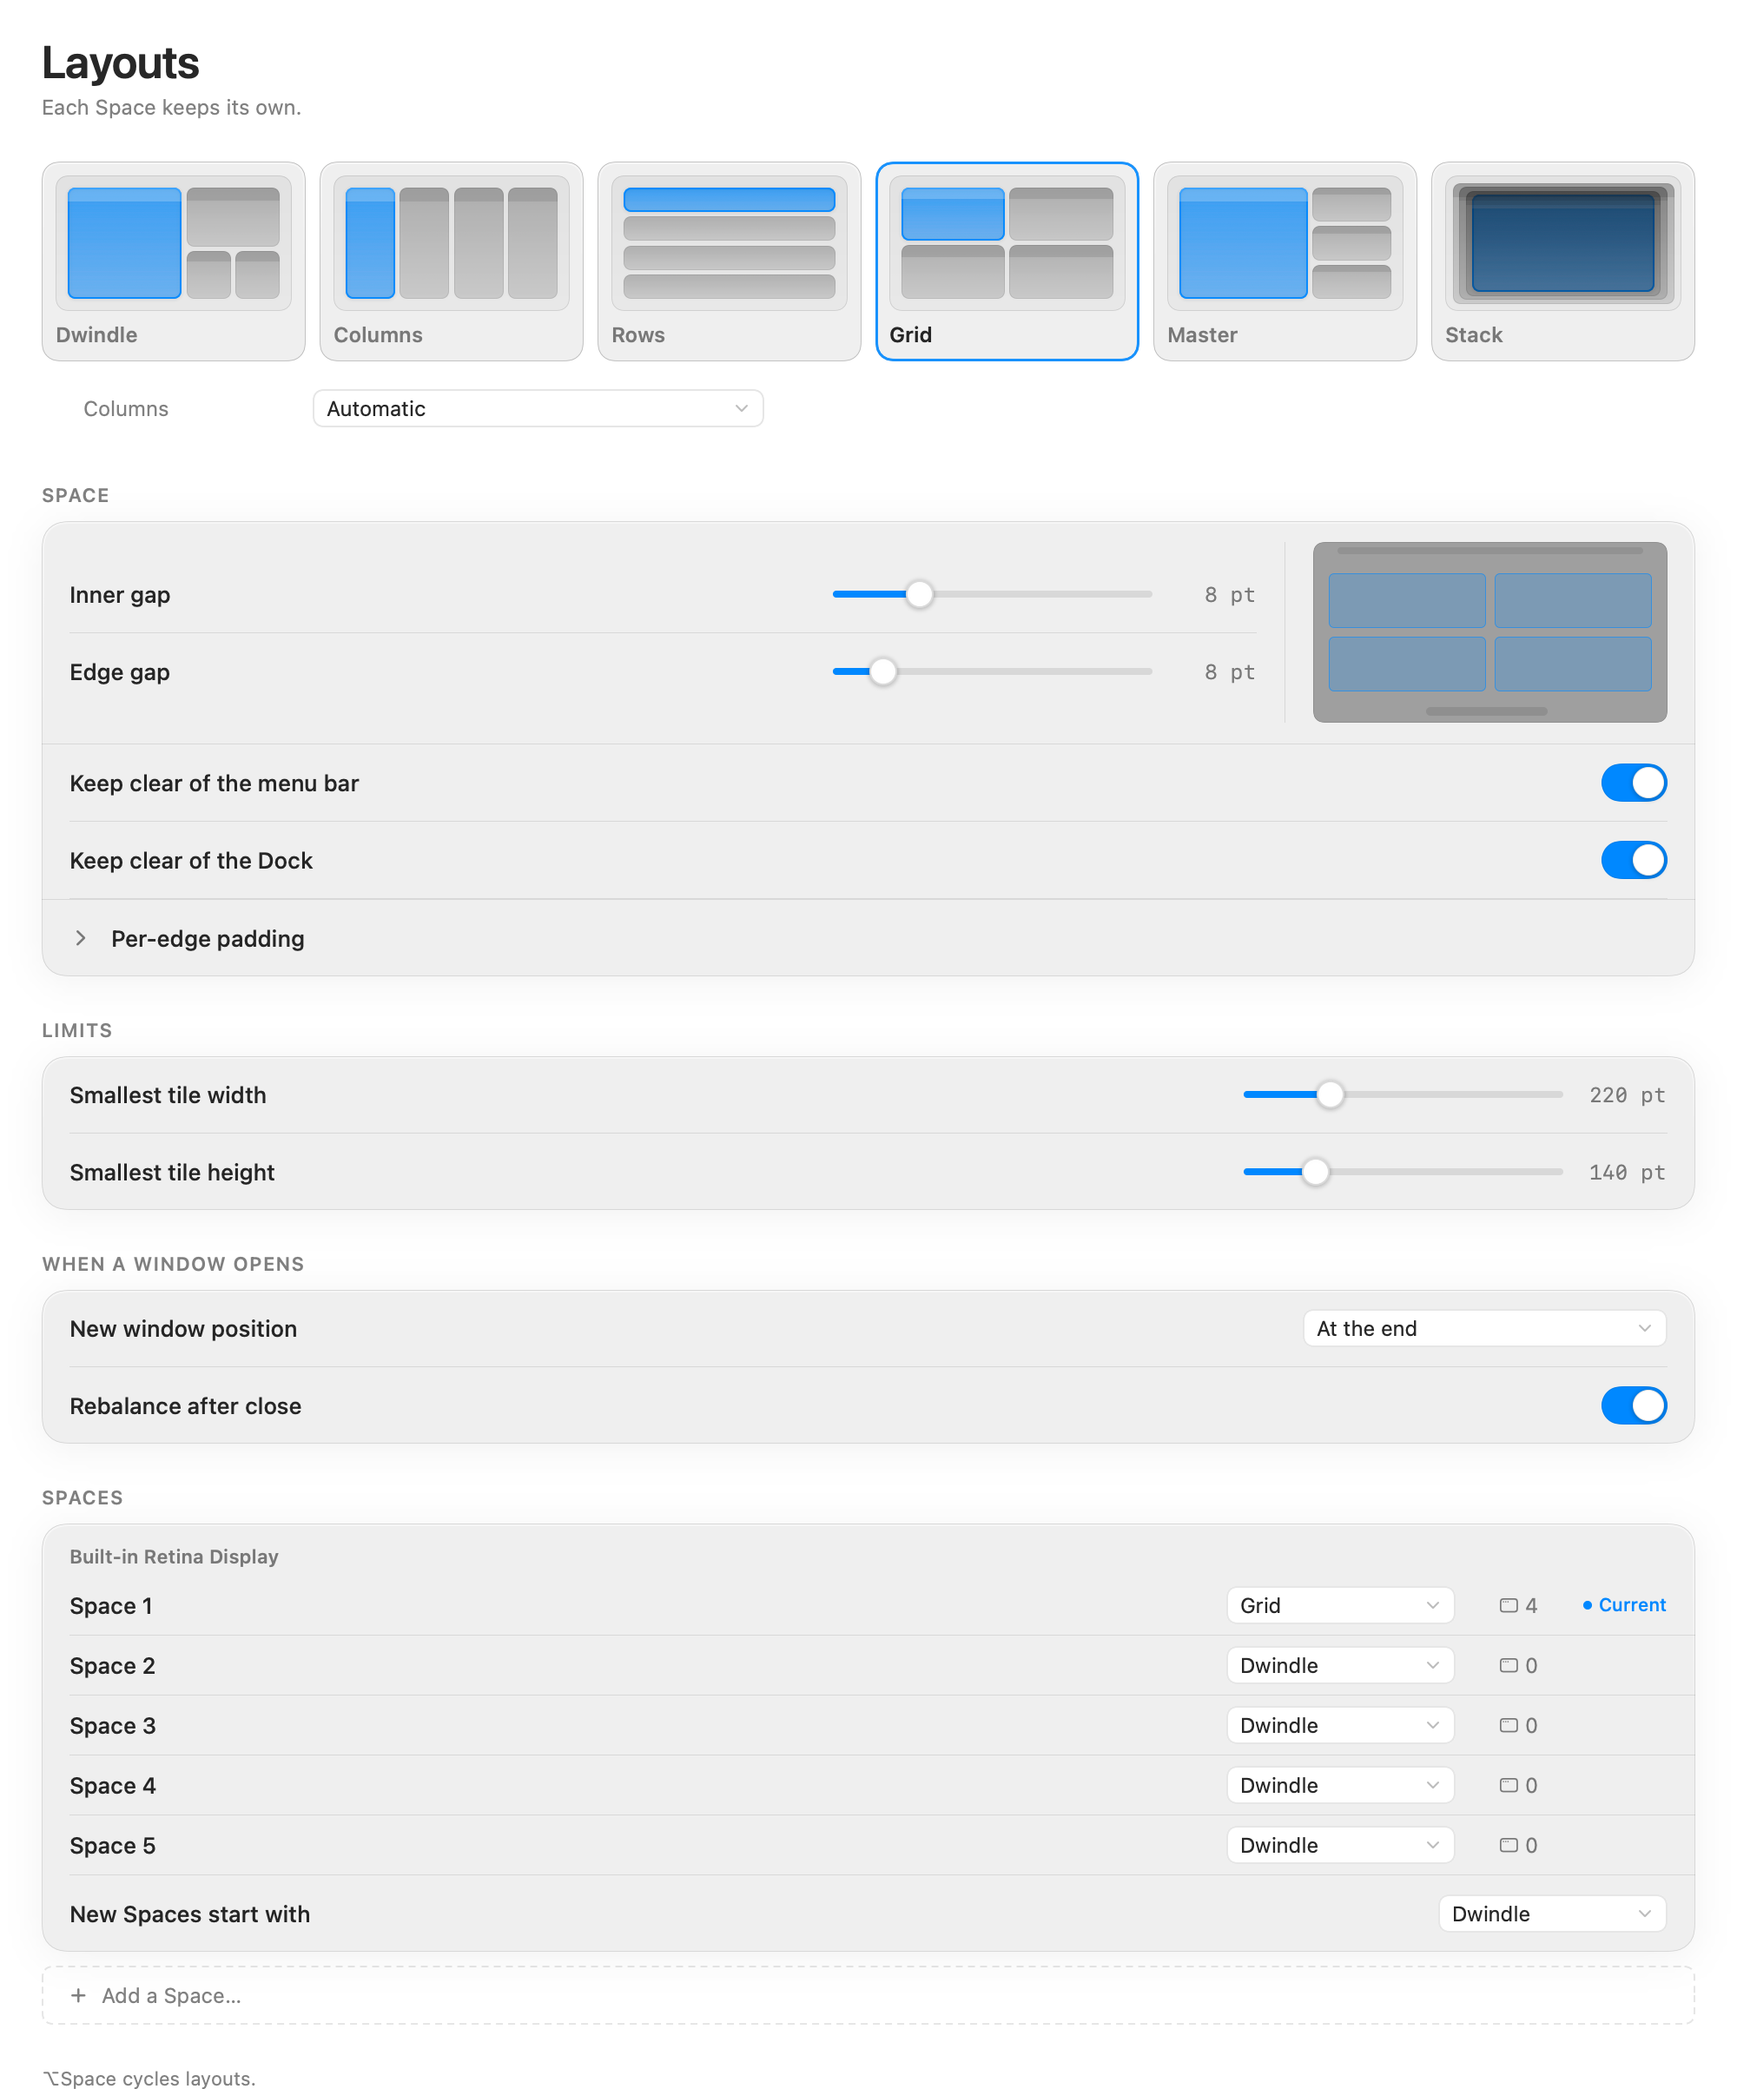
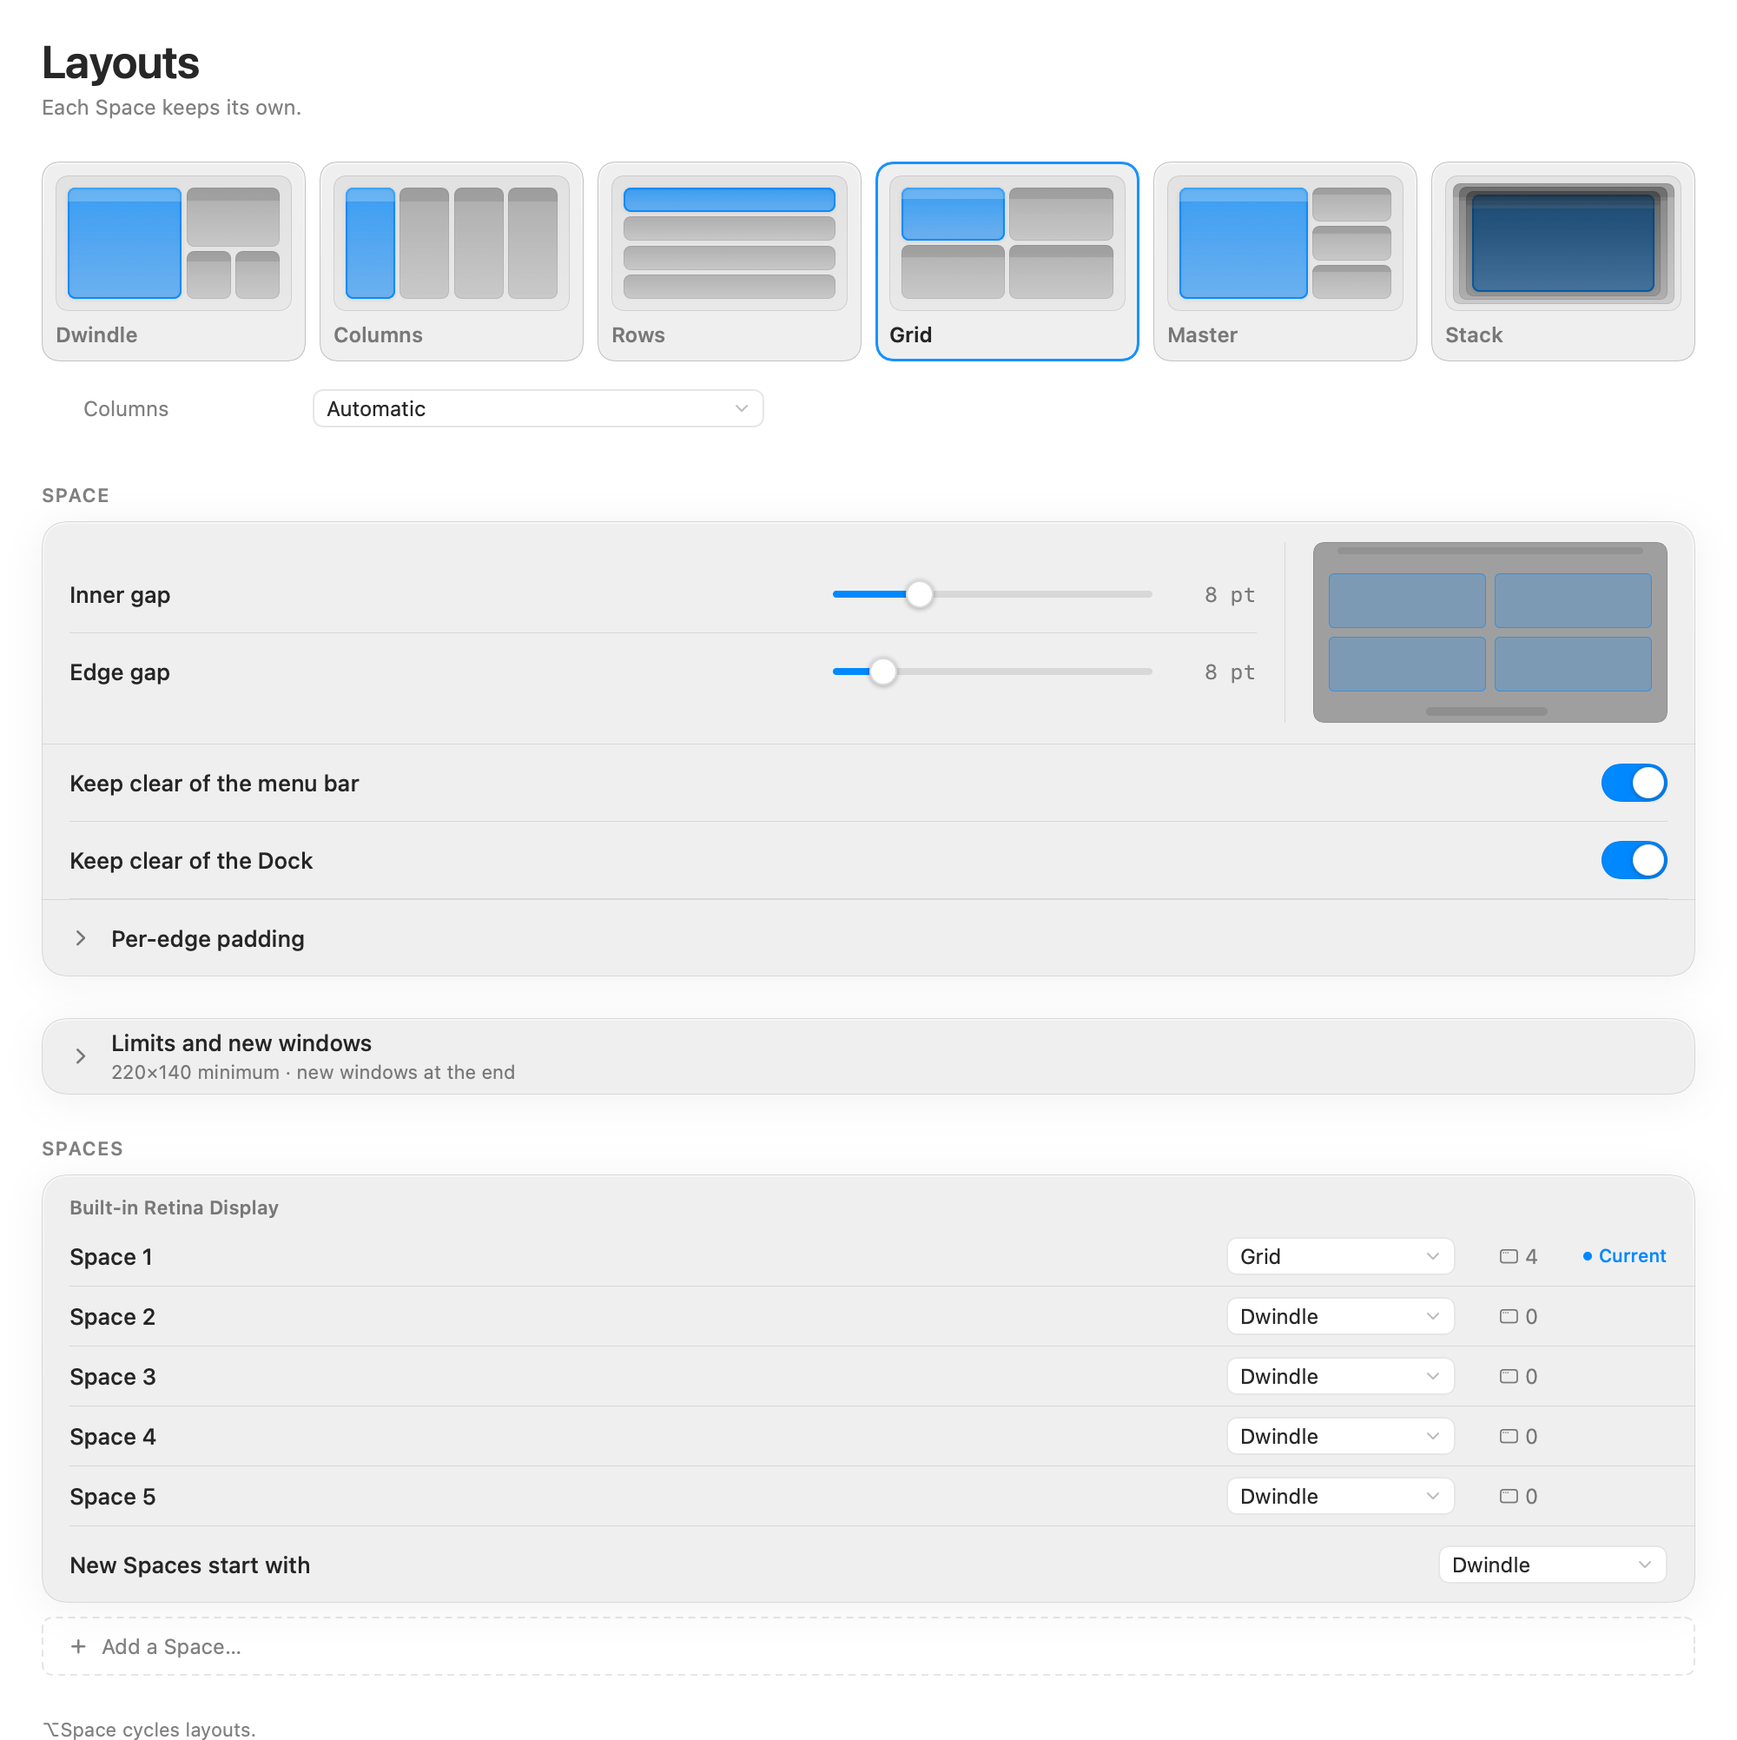
Layouts: fold Limits and new-window behaviour into one disclosure row

diff --git a/Sources/Lattice/UI/Layouts/LayoutsPage.swift b/Sources/Lattice/UI/Layouts/LayoutsPage.swift
@@ -25,8 +25,7 @@ struct LayoutsPage: View {
             header
             LayoutSelector(model: model, prefs: prefs)
             LayoutSpaceSection(model: model, prefs: prefs)
-            LayoutLimitsSection(prefs: prefs)
-            LayoutInsertionSection(prefs: prefs)
+            LayoutFineTuning(prefs: prefs)
             LayoutSpacesSection(model: model, prefs: prefs)
             footer
                 .padding(.bottom, LatticeTheme.Spacing.xl)
@@ -56,5 +55,42 @@ struct LayoutsPage: View {
         Text("⌥Space cycles layouts.")
             .font(.system(size: 11))
             .foregroundStyle(.secondary)
+    }
+}
+
+// MARK: - Fine tuning
+
+/// Limits and new-window behaviour are set once and forgotten, so they live behind one row
+/// instead of taking two sections of the page.
+private struct LayoutFineTuning: View {
+
+    @ObservedObject var prefs: LayoutsPreferences
+    @State private var expanded = false
+
+    private var summary: String {
+        let limit = "\(Int(prefs.prefs.minTiledWidth))×\(Int(prefs.prefs.minTiledHeight)) minimum"
+        let insertion = prefs.prefs.insertionPolicy.title.lowercased()
+        return "\(limit) · new windows \(insertion)"
+    }
+
+    var body: some View {
+        VStack(alignment: .leading, spacing: LatticeTheme.Spacing.md) {
+            Card(padding: 0) {
+                SettingsDisclosureRow(
+                    title: "Limits and new windows",
+                    subtitle: expanded ? nil : summary,
+                    isExpanded: expanded,
+                    showsDivider: false
+                ) {
+                    withAnimation(LatticeTheme.animation) { expanded.toggle() }
+                }
+            }
+
+            if expanded {
+                LayoutLimitsSection(prefs: prefs)
+                LayoutInsertionSection(prefs: prefs)
+            }
+        }
+        .transition(.opacity)
     }
 }
